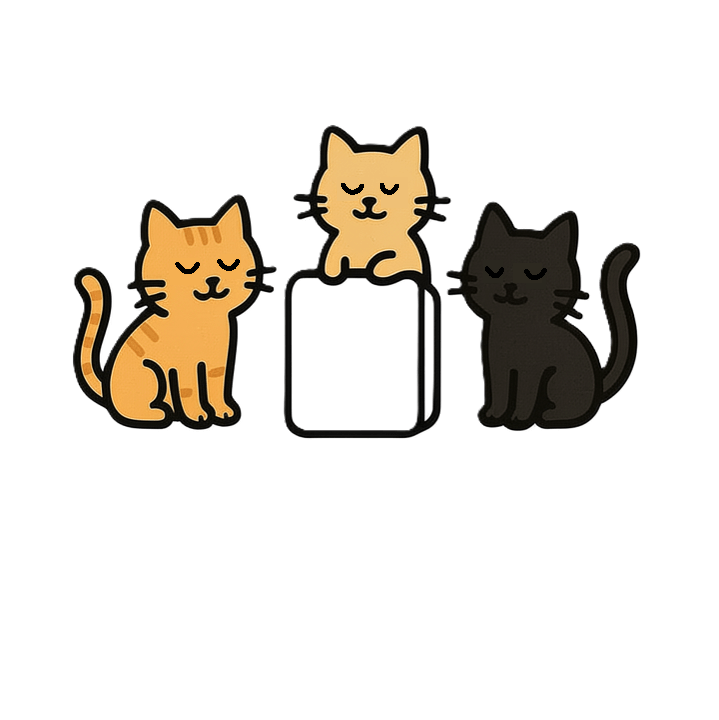
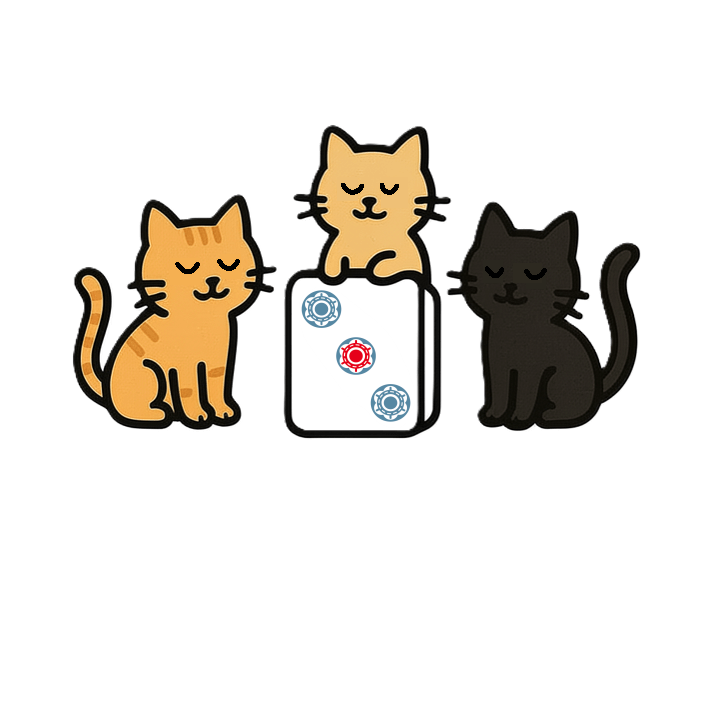
ロゴ修正

Changed region(s): [[0.3978, 0.3972, 0.5202, 0.5194], [0.5202, 0.5194, 0.5814, 0.6111]]

diff --git a/src/views/TitleView.vue b/src/views/TitleView.vue
@@ -5,10 +5,7 @@
         <div class="title-background-image base-image"></div>
         <div class="title-background-image eye-blink-image"></div>
       </div>
-      <h1 class="title-text">
-        <span class="main-title">よんじゃん！</span>
-        <span class="sub-title">~ 4牌で楽しむ本格麻雀 ~</span>
-      </h1>
+      <img src="/assets/images/back/タイトルロゴ.png" alt="よんじゃん！" class="title-logo" />
       <div class="audio-toggles">
         <label class="toggle-switch">
           <input type="checkbox" :checked="audioStore.isBgmEnabled" @change="audioStore.toggleBgm()">
@@ -30,7 +27,7 @@
       <nav class="menu">
         <ul>
           <li><button @click="startGame('vsCPU')">ねこAI対戦 🐈</button></li>
-          <li><button @click="goToShrine">じゃん猫神社 参拝 ⛩</button></li>
+          <li><button @click="goToShrine">じゃん猫神社⛩</button></li>
           <li><button @click="showRulesPopup = true">ルール 📖</button></li>
           <li><button @click="showYakuListPopup = true">役一覧 🀄</button></li>
           <li><button @click="startGame('allManual')">全操作モード</button></li>
@@ -183,36 +180,14 @@ function goToShrine() {
   animation: blink-opacity 5s infinite step-start; /* 透明度で瞬きを制御 */
 }
 
-.title-text { /* h1タグからクラスに変更 */
-  margin-top: -20px; /* 背景画像との重なりを調整 */
-  margin-bottom: 0px; /* メニューとの間隔を調整 */
-  position: relative; /* z-indexを有効にするため */
-  color: #B14B3F; /* 文字色を変更 */
-  /* 縁取りを追加 */
-  -webkit-text-stroke: 1.2px rgb(0, 0, 0); /* Safari, Chrome */
-  /* text-shadowで擬似的に縁取り*/
-  text-shadow:
-    -1.5px -1.5px 0 white, 1.5px -1.5px 0 white, -1.5px 1.5px 0 white, 1.5px 1.5px 0 white, /* 4方向の白い影 */
-    1px 1px 1px rgba(0,0,0,0.4); /* 元のドロップシャドウ */
-  padding: 0px; /* 文字の周りの余白を調整 */
-  line-height: 1.2; /* 行間を調整 */
-  width: 100%; /* h1が横にはみ出さないように */
-  z-index: 1; /* グラデーションより手前に来るように */
-}
-
-.main-title {
-  display: block; /* 改行のため */
-  font-size: 1.8em; /* 固定サイズに変更 */
-  margin-left: 20px;
-  white-space: nowrap; /* 「よんじゃん！」が途中で改行されないようにする */
-  font-weight: 700; /* 少し太めに */
-  animation: pop 10s infinite ease-in-out; /* ポヨン感アニメーションを適用 */
-}
-.sub-title {
-  display: block; /* 改行のため */
-  font-size: 0.9em; /* 固定サイズに変更 */
-  margin-top: 1px; /* メインタイトルとの間隔 */
-  color: #50927c; /* サブタイトルの色をメインより少し薄く (例) */
+.title-logo {
+  width: 80%; /* 画面幅に対する割合でサイズを調整 */
+  max-width: 300px; /* 最大幅を指定 */
+  height: auto; /* 高さは自動調整 */
+  margin-top: -20px;
+  margin-bottom: -10px;
+  position: relative;
+  z-index: 1;
 }
 
 .menu ul {
@@ -226,8 +201,9 @@ function goToShrine() {
 }
 
 .menu button {
-  width: 280px; /* 固定幅に設定 */
-  padding: 6px 20px; /* パディング調整 */
+  width: 240px; /* 固定幅に設定 */
+  height: 40px; /* 固定高さに設定 */
+  padding: 4px 20px; /* パディング調整 */
   font-size: 1.2em;
   cursor: pointer;
   border: none; /* ボーダーを削除 */

diff --git a/src/App.vue b/src/App.vue
@@ -49,6 +49,7 @@ onMounted(async () => {
     '/assets/images/back/back_hai.png',
     '/assets/images/back/back_out.png',
     '/assets/images/back/mat.png',
+    '/assets/images/back/タイトルロゴ.png',
     '/assets/images/back/title_back_eye.png',
     '/assets/images/back/title_back.png',
     '/assets/images/button/buckToTitle.png',
